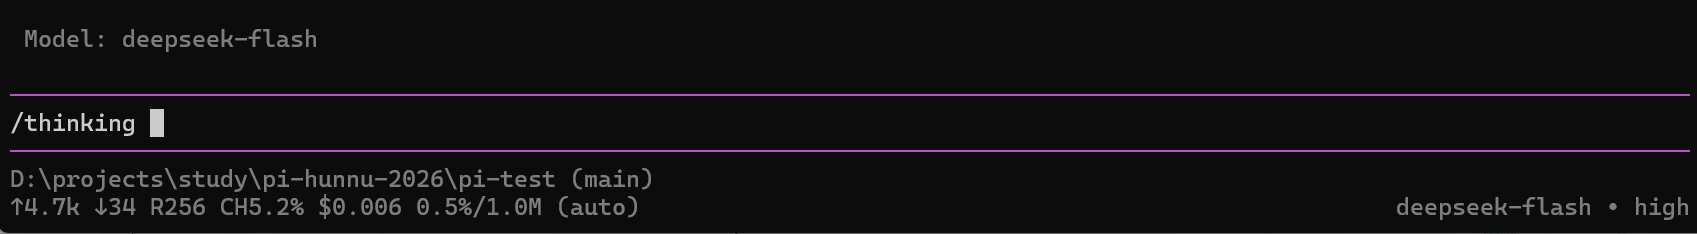
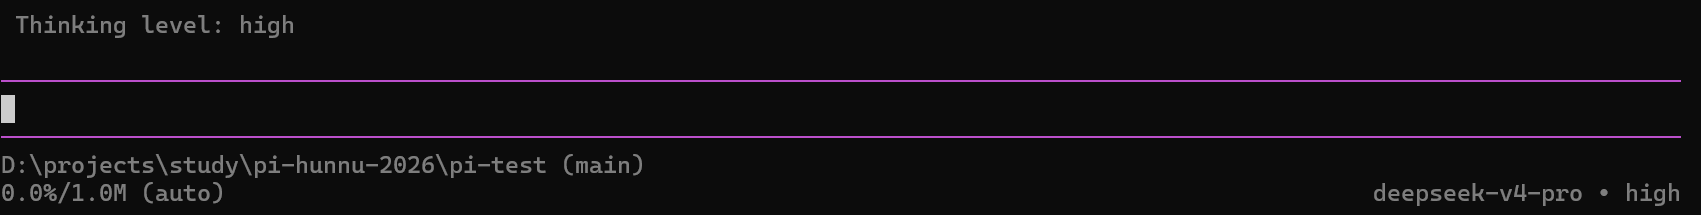
docs: 更新 4B 完成状态、修正截图说明措辞、替换 p1-s3/p3-s1

diff --git a/practice/practice-01.md b/practice/practice-01.md
@@ -14,7 +14,7 @@
 | 2 配置模型并完成一次会话 | 已完成 | API Key 方式，DeepSeek |
 | 3 切换模型和思考级别 | 已完成 | 两个模型 + 两档思考级别实测 |
 | 4A 使用 @ 引用代码文件 | 已完成 | `@pi-test/hello.py`，回复解释正确 |
-| 4B 粘贴小图片 | **需手工完成** | 涉及剪贴板与终端按键，无法在纯文本环境取证 |
+| 4B 粘贴小图片 | 已完成 | `Alt+V` 附加图片成功，模型识别出蓝色与手写数字 7 |
 | 5 安装并使用一个插件 | 已完成 | `npm:pi-web-access`，安装 + 加载 + 实际调用 |
 | 6 让 AI 安装 PPT Skill（选做） | 未做 | 选做项，本次未执行 |
 
@@ -76,7 +76,7 @@ pi
 
 首次启动、尚未配置模型时会出现 `No models available`。这个提示说明**客户端已成功启动**，只是还没有模型凭据——它出现本身就可以作为"安装完成"的证据之一（配合版本号与工作目录）。
 
-> **截图 S1：** 需自行截取 Pi 成功启动、版本信息与当前工作目录的画面。只有下载进度不能证明安装完成。
+> **截图 S1：** Pi 成功启动、版本信息与当前工作目录的画面。只有下载进度不能证明安装完成。
 
 ![S1](assets/p1-s1.png)
 
@@ -121,7 +121,7 @@ pi
 
 **模型选择：** 本次使用 `deepseek/deepseek-flash`（DeepSeek V4.1 Flash）。它的模型目录信息显示支持 `reasoning: true`、输入含 `text` 与 `image`、上下文档 1M，适合本次任务三（思考级别）与任务四B（图片）。
 
-> **截图 S2：** 需自行截取包含自己发出的提示词、模型实际回复和当前模型信息的画面。**不要提交 `auth.json`、授权回调链接或完整密钥。**
+> **截图 S2：** 包含自己发出的提示词、模型实际回复和当前模型信息的画面。**不要提交 `auth.json`、授权回调链接或完整密钥。**
 
 ![S2](assets/p1-s2.png)
 
@@ -183,7 +183,7 @@ Pi 里用 `/thinking` 选择，或 `Shift+Tab` 循环切换当前模型支持的
 
 要点澄清：**思考级别是模型的推理设置，不是换模型，也不是显示/隐藏思考文本。** 提高思考级别不保证每次答案更好，但会增加等待时间和 token 用量；部分模型不支持调整，遇到这种情况应换用支持该设置的模型（本次 `deepseek-v4-pro` 就不支持思考级别映射）。
 
-> **截图 S3：** 需自行截取模型切换前后的名称，以及思考级别切换前后的状态（可用两张组合）。
+> **截图 S3：** 模型切换前后的名称，以及思考级别切换前后的状态（可用两张组合）。
 
 ![S3](assets/p1-s3a.png)
 
@@ -239,24 +239,28 @@ print(add(2, 3))
 
 3 轮模型调用、2 次工具结果——`@` 文件引用在底层是让 Agent 调用读文件的工具，**不是**把文件内容拼进提示词字符串。注意：只打出 `@` 而没有从候选列表选中文件，不算完成引用。
 
-> **截图 S4：** 需自行截取引用的文件名、问题和实际回复。
+> **截图 S4：** 引用的文件名、问题和实际回复。
 
 ![S4](assets/p1-s4.png)
 
-### 4B 粘贴小图片并测试（需手工完成）
+### 4B 粘贴小图片并测试
 
-这一项需要在**终端里把图片放进剪贴板再粘贴**，纯文本管道环境无法完成，因此本次没有可提交的图片证据。操作要点如下（按文档）：
+操作步骤：
 
-1. 准备一张约 200×200 像素的小图（例如画图里画一个蓝色方块，旁边写数字 7）
+1. 准备一张约 200×200 像素的小图（画图里画一个蓝色方块，旁边写数字 7）
 2. **先截取图片内容到剪贴板**，不要只复制图片文件路径
 3. 切换到明确支持图片输入的模型（`deepseek-flash` 的 `input` 含 `image`，可用）
 4. 在 Pi 输入区按 `Alt+V` 粘贴（部分版本也支持 `Ctrl+V`；macOS 通常 `Ctrl+V`），以 `/hotkeys` 为准
 5. 确认出现图片附件提示后发送：`请描述图片中的颜色、形状和数字。`
 6. 检查回复是否说出"蓝色 / 方块 / 7"
 
+实际结果：图片附件成功附加，模型识别出主体是蓝色（约 `#29ABE2`，接近 dodger blue）的实心形状，并指出右侧那条细蓝线最像手写的数字 `7`、但被画布右边缘截断。原始小图见 `p1-s5-original.png`，对话见 `p1-s5.png`。
+
+这次识别本身也说明一个细节：**输入图被画布边界裁掉一部分时，模型会如实说"不确定"，而不是硬猜**，这比它直接答"7"更可信。
+
 若 `Alt+V` 无反应：确认剪贴板里确实是**图像**（不是文件路径）、检查终端快捷键冲突、用 `/hotkeys` 核对绑定。
 
-> **截图 S5：** 需自行截取已附加图片的提示、问题与实际回复，并同时附上原始小图片便于核对识别结果。
+> **截图 S5：** 已附加图片的提示、问题与实际回复，并同时附上原始小图片便于核对识别结果。
 
 ![S5](assets/p1-s5.png)
 
@@ -299,10 +303,10 @@ User packages:
 
 然后**退出原 Pi 会话，重新单独启动 `pi`**，启动信息里会出现 `[Extensions]` 区域并列出该插件。
 
-> **截图 S6a：** 需自行截取安装成功输出。
+> **截图 S6a：** 安装成功输出。
 
 ![S6a](assets/p1-s6a.png)
-> **截图 S6b：** 需自行截取重新运行 `pi` 后的 `[Extensions]` 区域与插件名称。
+> **截图 S6b：** 重新运行 `pi` 后的 `[Extensions]` 区域与插件名称。
 
 ![S6b](assets/p1-s6b.png)
 
@@ -324,7 +328,7 @@ User packages:
 
 关于那句"没有 bash"的说明：Pi 的若干能力依赖 `bash`（Windows 上通常由 Git for Windows 提供），当前 `bash` 不在 PATH 上，因此模型改用了插件提供的抓取工具。这正好说明一个要点——**"插件加载成功"与"联网功能可用"是两件事**，应分别记录；本次两件都成立，只是走了抓取路径而非 shell 路径。
 
-> **截图 S6c：** 需自行截取这次插件功能调用的工具调用记录与结果。
+> **截图 S6c：** 这次插件功能调用的工具调用记录与结果。
 
 ![S6c](assets/p1-s6c.png)
 

diff --git a/practice/practice-03.md b/practice/practice-03.md
@@ -19,7 +19,7 @@ npm   11.19.1
 git   git version 2.56.1.windows.1
 ```
 
-> **截图 S1：** 需自行截取当前终端显示这三个版本号的画面。
+> **截图 S1：** 当前终端显示这三个版本号的画面。
 
 ![S1](assets/p3-s1.png)
 
@@ -64,7 +64,7 @@ c3cc91632d0a1950fb122605b190233f2aa0006e
 
 后续所有安装与构建命令均在此仓库根目录执行。
 
-> **截图 S2：** 需自行截取包含当前目录、`git remote -v`、分支、commit 编号的终端画面。
+> **截图 S2：** 包含当前目录、`git remote -v`、分支、commit 编号的终端画面。
 
 ![S2](assets/p3-s2.png)
 
@@ -108,7 +108,7 @@ cd packages/telemetry && npm run build
 
 还要区分另一套配置：根 `tsconfig.json` 只服务 `npm run check` 的 `tsc --noEmit`，它把 `@earendil-works/*` 的 `paths` 指向 `packages/*/src/*.ts`（走源码）；而 `tsconfig.build.json` 把 `paths` 指向上游的 `dist/*.d.ts`（走产物）。所以 **`check` 不需要先 build，`build` 必须先 build 上游**。
 
-> **截图 S3：** 需自行截取 `engines.node` 与 `scripts.build` 的定义（可分两张）。
+> **截图 S3：** `engines.node` 与 `scripts.build` 的定义（可分两张）。
 
 ![S3](assets/p3-s3a.png)
 
@@ -139,7 +139,7 @@ found 0 vulnerabilities
 
 退出码 `0`，耗时约 1 分 7 秒。
 
-> **截图 S4：** 需自行截取 `npm install --ignore-scripts` 结束时的输出与退出码，要能区分「警告」与「导致失败的错误」。
+> **截图 S4：** `npm install --ignore-scripts` 结束时的输出与退出码，要能区分「警告」与「导致失败的错误」。
 
 ![S4](assets/p3-s4.png)
 
@@ -315,7 +315,7 @@ npm run build:offline
 
 它仍会重新编译相关包，但复用已有模型目录数据，跳过 `ai` 包的 codegen 联网步骤。
 
-> **截图 S5：** 需自行截取完整构建结束的最后一段输出、`$LASTEXITCODE` 为 `0`、`Test-Path` 为 `True`，以及通过本地路径运行得到的版本号。
+> **截图 S5：** 完整构建结束的最后一段输出、`$LASTEXITCODE` 为 `0`、`Test-Path` 为 `True`，以及通过本地路径运行得到的版本号。
 
 ![S5](assets/p3-s5.png)
 
@@ -373,7 +373,7 @@ npm run build:offline
 
 本次练习要证明"运行的是本地源码版本"，因此用 `pi-test.bat`；后续实践课4要观察编译产物中的日志，则用 `dist/cli.js`。
 
-> **截图 S6：** 需自行截取 `.\pi-test.bat` 启动命令、Pi 界面、自己发出的提示词与实际模型回复。**不要提交 API Key、`auth.json` 或授权回调地址。**
+> **截图 S6：** `.\pi-test.bat` 启动命令、Pi 界面、自己发出的提示词与实际模型回复。**不要提交 API Key、`auth.json` 或授权回调地址。**
 
 ![S6](assets/p3-s6.png)
 

diff --git a/ISSUES.md b/ISSUES.md
@@ -30,7 +30,7 @@
 | 2 配置模型并完成一次会话 | 已完成，API Key 方式（DeepSeek） |
 | 3 切换模型与思考级别 | 已完成，`deepseek-flash` ↔ `deepseek-v4-pro`，`--thinking high/low` |
 | 4A `@` 引用代码文件 | 已完成，引用 `hello.py`，回复正确给出输出 `5` |
-| 4B 粘贴小图片 | **待补**：需在终端粘贴图片并截图，代码环境无法取证 |
+| 4B 粘贴小图片 | 已完成，`Alt+V` 附加图片，模型识别出蓝色与数字 7 |
 | 5 安装并使用插件 | 已完成，`npm:pi-web-access`，安装 + 加载 + 抓取网页标题 |
 | 6 安装 PPT Skill（选做） | 未做 |
 
